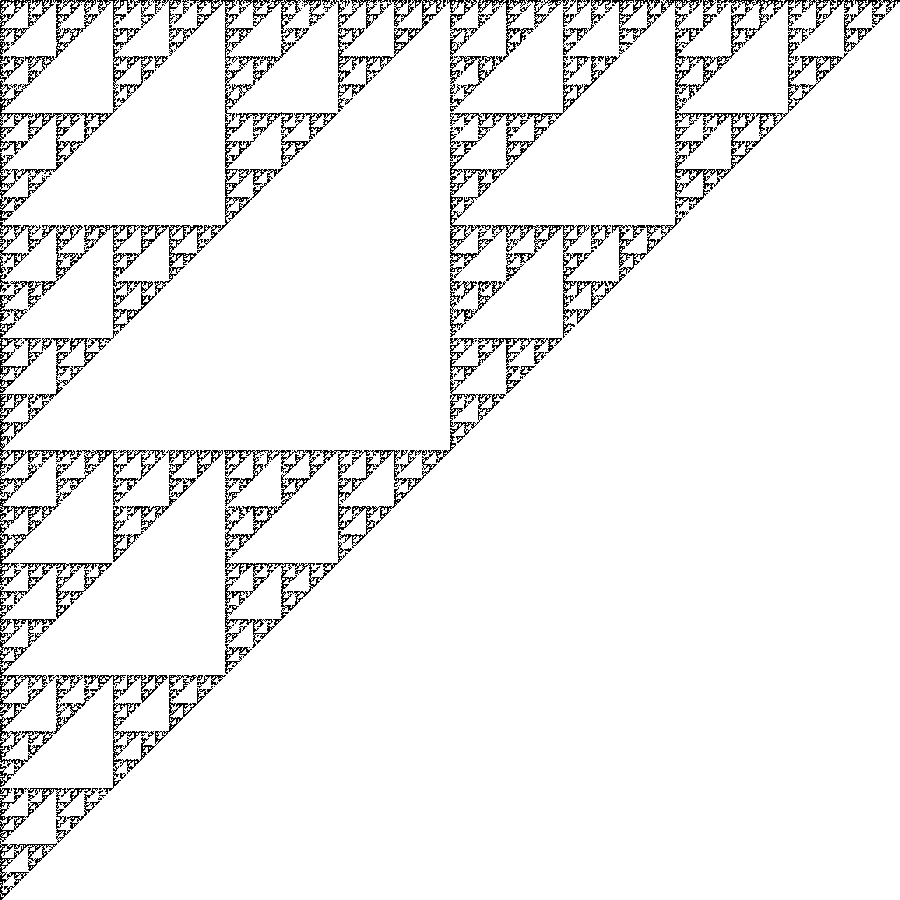
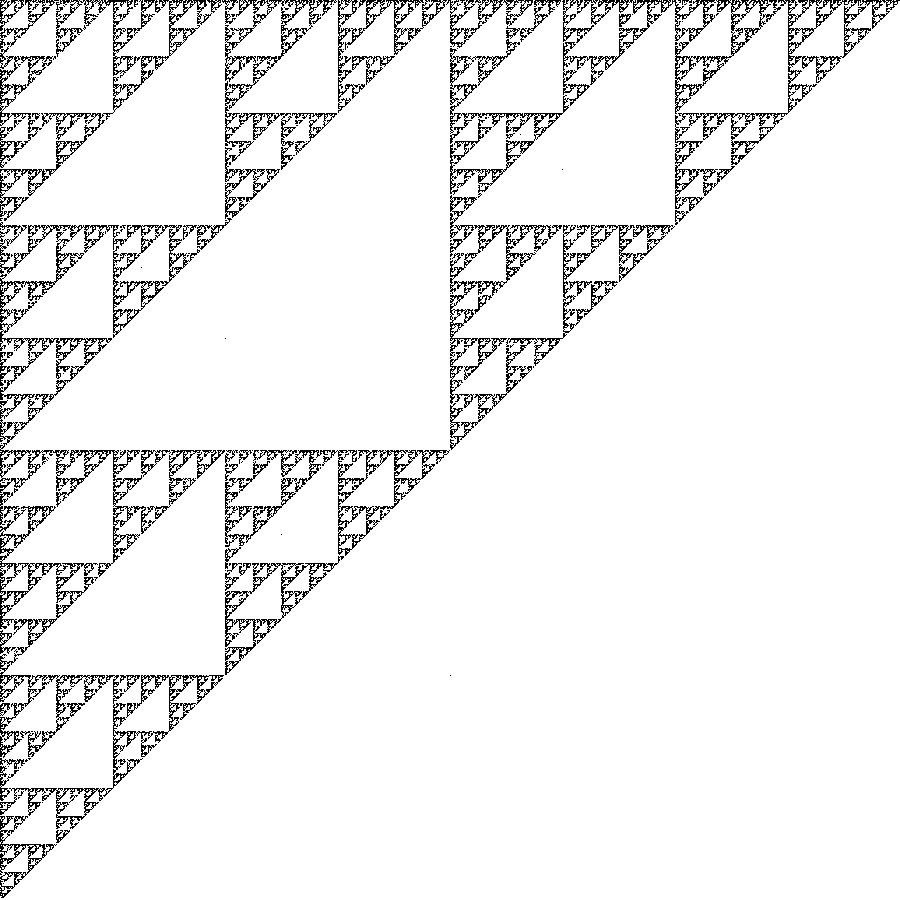
Added the escape time algorithm

Changed region(s): [[0.0, 0.0, 0.9956, 0.9956]]

diff --git a/sierpinski_weighted.py b/sierpinski_weighted.py
@@ -7,12 +7,12 @@ def w1(input_image):
 
 def w2(input_image):
   input_image = np.array([[0.5, 0],[0, 0.5]]) @ input_image
-  input_image[1] += 0.5
+  input_image[1] += 1
   return input_image
   
 def w3(input_image):
   input_image = np.array([[0.5, 0],[0, 0.5]]) @ input_image
-  input_image[0] += 0.5
+  input_image[0] += 1
   return input_image
   
 def main(n=100000):
@@ -26,13 +26,13 @@ def main(n=100000):
     input_image = [1, 1]
     for i in range(n):
         which_transformation = np.random.randint(0, 19)
-        # the randomly selected transformation
+        # the weighted selected transformation
         if(which_transformation >= 0 and which_transformation < 9):
-          input_image = w1(input_image)
-        elif(which_transformation >= 9 and which_transformation < 18):
           input_image = w2(input_image)
-        elif(which_transformation >= 18):
+        elif(which_transformation >= 9 and which_transformation < 18):
           input_image = w3(input_image)
+        elif(which_transformation >= 18):
+          input_image = w1(input_image)
         #transform point to the canvas grid
         pix_coord = np.around((input_image[0:2]) * [pixels_width, pixels_height]).astype(int)
         # if the pixel is on the canvas

diff --git a/escape_time_fern.py b/escape_time_fern.py
@@ -1,0 +1,42 @@
+import numpy as np
+import imageio
+import math
+  
+def main():
+    pixels_width = 900
+    pixels_height = 900
+    
+    # set my frame
+    fixed_point = np.zeros((pixels_width, pixels_height,3))
+    l = np.array([0,0])
+    
+    for i in range(pixels_width):
+      for j in range(pixels_height):
+        x=float(16*i)/pixels_width - 8
+        y=float(-13*j)/pixels_height + 12
+        for k in range(75):
+            l[0]=0.857*x + 1.4114
+            l[1]= -0.8462*x + 2.59
+            if((x>0 and y>l[0]) or (x<=0 and y>l[1])):
+                Newx=1.174*x-.0552*y+.0884 
+                Newy=.0552*x+1.174*y-1.878
+            if(x<0 and y<l[1]):
+                Newx=2.119*x+2.505*y-4.01
+                Newy=-2.216*x+1.927*y-3.083
+            if(x>=0 and y<l[0]):
+                Newx =-2.205*x+2.573*y-1.132
+                Newy =2.389*x+1.378*y-.6066
+            if((abs(x)<.01) and (abs(y)<.44)):
+                Newx = x
+                Newy = 6.25*y
+
+            x=Newx;
+            y=Newy;
+            if(x*x+y*y>10000):
+              fixed_point[i][j] = np.array([0,0,k])
+              break
+
+    imageio.imwrite('escape_time_fern.png', fixed_point)
+    return
+
+main()

diff --git a/escape_time_sierpinski.py b/escape_time_sierpinski.py
@@ -1,0 +1,36 @@
+import numpy as np
+import imageio
+import math
+  
+def main():
+    pixels_width = 900
+    pixels_height = 900
+    
+    # set my frame and set it to white
+    fixed_point = np.zeros((pixels_width, pixels_height,3))
+    
+    for i in range(pixels_width):
+      for j in range(pixels_height):
+        x=float(i)/pixels_width
+        y=float(-j)/pixels_height + 1
+        for k in range(100):
+          if(x < 0.5 and y <= 0.5):
+            Newx = 2*x
+            Newy = 2*y
+          if(x > 0.5 and y <= 0.5):
+            Newx= 2*x-1
+            Newy= 2*y
+          if(y > 0.5):
+            Newx= 2*x
+            Newy= 2*y-1
+
+          x=Newx
+          y=Newy
+          if(x*x + y*y > 100000):
+            fixed_point[i][j]= np.array([0,0,k+10])
+            break
+
+    imageio.imwrite('escape_time_sierpinski.png', fixed_point)
+    return
+
+main()

diff --git a/escape_time_curl.py b/escape_time_curl.py
@@ -1,0 +1,36 @@
+import numpy as np
+import imageio
+import math
+  
+def main():
+    pixels_width = 900
+    pixels_height = 900
+    
+    # set my frame and set it to white
+    fixed_point = np.zeros((pixels_width, pixels_height,3))
+    
+    for i in range(pixels_width):
+      for j in range(pixels_height):
+        x=float(4*i)/pixels_width - 2
+        y=float(-4*j)/pixels_height + 2
+        for k in range(100):
+          if(x < 0 and y <= 0):
+            Newx = 2*x + 1
+            Newy = 2*y + 1
+          if(y>0):
+            Newx=2*y-1
+            Newy=-2*x+1
+          if(x>=0 and y<=0):
+            Newx=2*x-1
+            Newy=2*y+1
+
+          x=Newx
+          y=Newy
+          if(x*x + y*y > 100000):
+            fixed_point[i][j]= np.array([0,0,k])
+            break
+
+    imageio.imwrite('escape_time_curl.png', fixed_point)
+    return
+
+main()

diff --git a/sierpinski.py b/sierpinski.py
@@ -1,5 +1,6 @@
 import numpy as np
 import imageio
+import math
 
 def w1(input_image):
   input_image = np.array([[0.5, 0],[0, 0.5]]) @ input_image
@@ -19,9 +20,7 @@ def main(n=100000):
     pixels_width = 900
     pixels_height = 900
     # set my frame and set it to white
-    fixed_point = np.zeros((pixels_width, pixels_height))
-    for i in range(pixels_width):
-        fixed_point.fill(255)
+    fixed_point = np.full((pixels_width, pixels_height),255)
     #input image doesn't matter so just random values here
     input_image = [1, 1]
     for i in range(n):

diff --git a/sierpinski_colored.py b/sierpinski_colored.py
@@ -41,7 +41,7 @@ def main(n=100000):
         pix_coord = np.around((input_image[0:2]) * [pixels_width, pixels_height]).astype(int)
         # if the pixel is on the canvas
         if (pix_coord >= [0, 0]).all() and (pix_coord < [pixels_width, pixels_height]).all():
-            #set the point to black
+            #set the point to appropriate color
             fixed_point[pix_coord[0], pix_coord[1]] = color
     imageio.imwrite('sierpinski_colored.png', fixed_point)
     return
